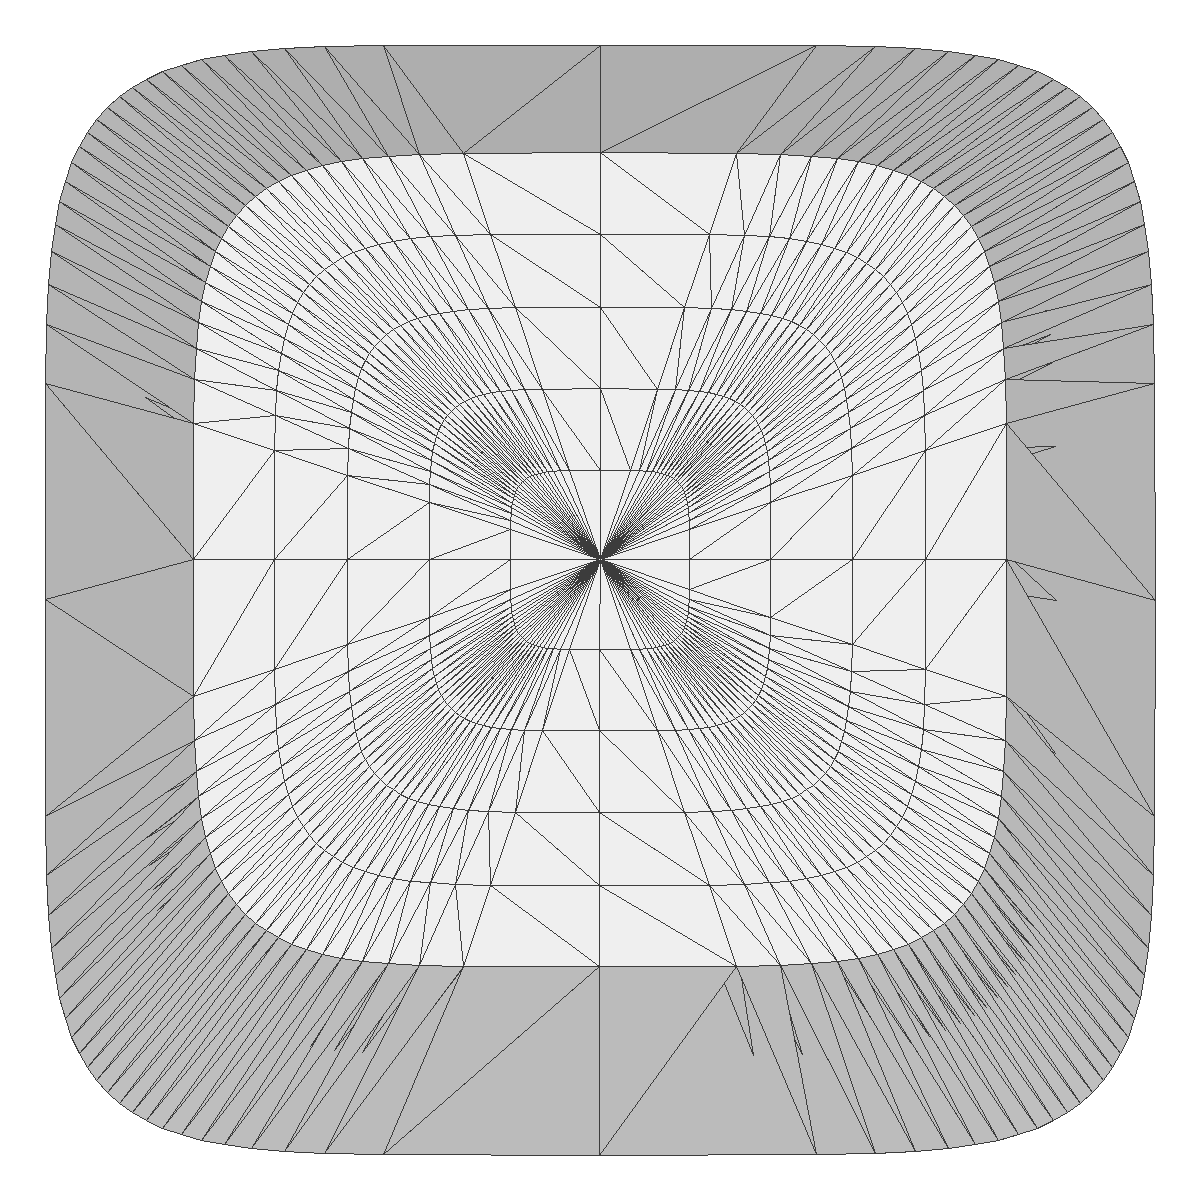
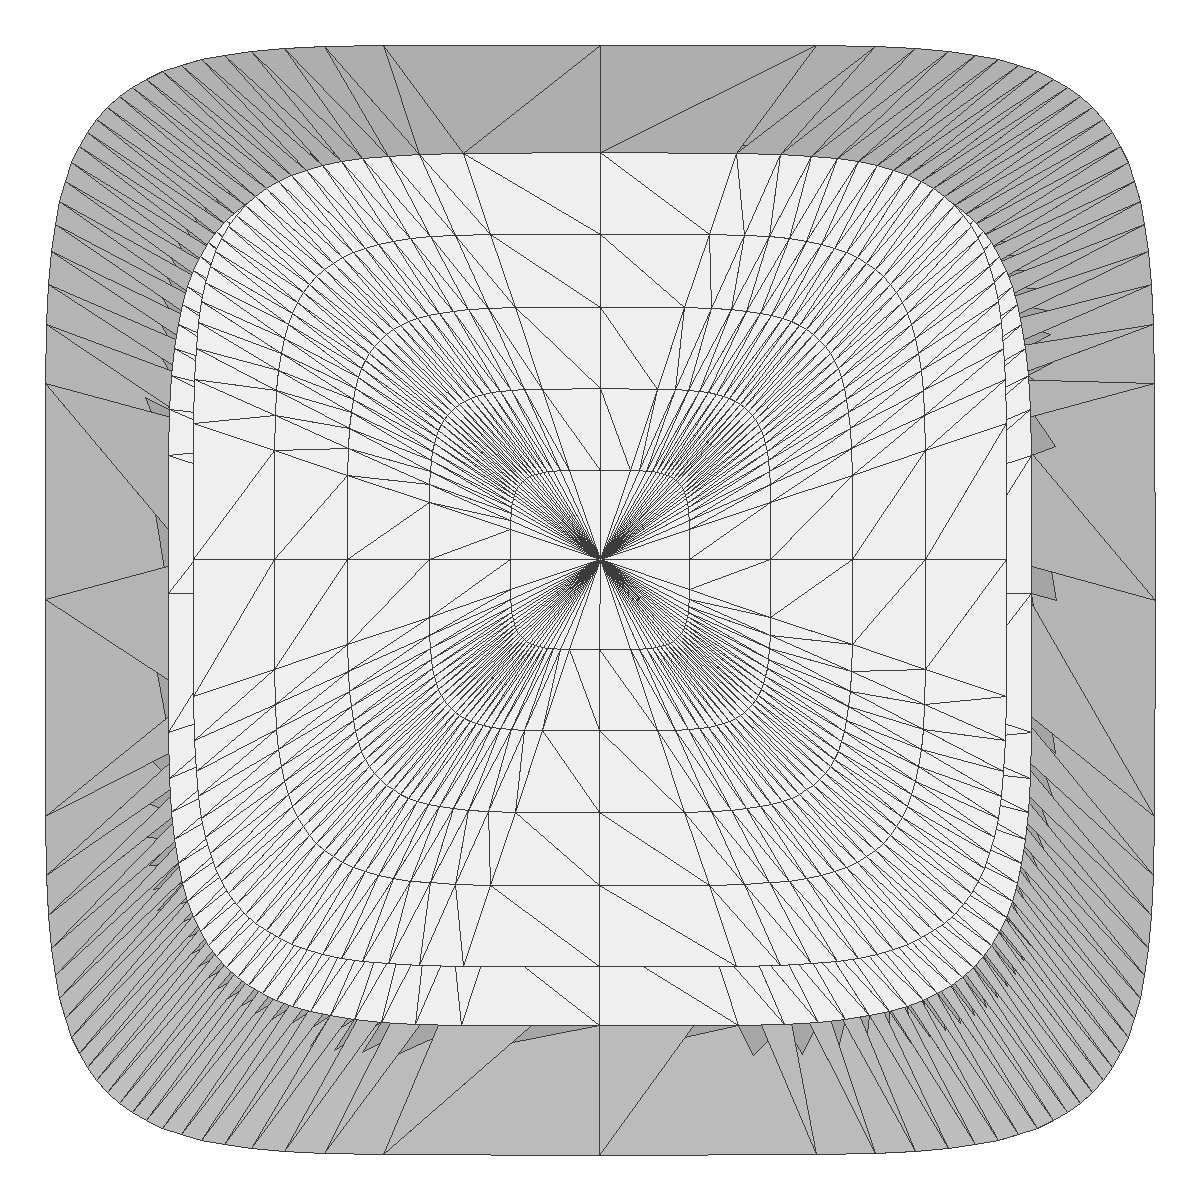
.

Changed region(s): [[0.1233, 0.185, 0.8633, 0.8633]]

diff --git a/scripts/make_keycap_hollow_bottom.py b/scripts/make_keycap_hollow_bottom.py
@@ -124,13 +124,13 @@ def make_keycap():
     # Hollow underside, no stem.
     inner_bottom_w = 14.8
     inner_bottom_d = 14.8
-    inner_roof_w = 10.8
-    inner_roof_d = 10.8
+    inner_roof_w = 14.0
+    inner_roof_d = 14.0
 
     outer_bottom = superellipse_loop(outer_bottom_w, outer_bottom_d, lambda _x, _y: 0.0, exponent=5.8)
     outer_top = superellipse_loop(outer_top_w, outer_top_d, top_z, y_offset=top_offset_y, exponent=5.0)
     inner_bottom = superellipse_loop(inner_bottom_w, inner_bottom_d, lambda _x, _y: 0.0, exponent=5.0)
-    inner_roof = superellipse_loop(inner_roof_w, inner_roof_d, roof_z, y_offset=top_offset_y * 0.45, exponent=4.4)
+    inner_roof = superellipse_loop(inner_roof_w, inner_roof_d, roof_z, y_offset=top_offset_y * 0.15, exponent=4.8)
 
     # Outer tapered side wall.
     add_loop_bridge(tris, outer_bottom, outer_top)
@@ -145,7 +145,7 @@ def make_keycap():
     add_loop_bridge(tris, inner_bottom, inner_roof, reverse=True)
 
     # Smooth ceiling of the hollow cavity.
-    add_filled_superellipse_surface(tris, inner_roof_w, inner_roof_d, roof_z, y_offset=top_offset_y * 0.45, exponent=4.4, reverse=True)
+    add_filled_superellipse_surface(tris, inner_roof_w, inner_roof_d, roof_z, y_offset=top_offset_y * 0.15, exponent=4.8, reverse=True)
 
     return tris
 
@@ -187,6 +187,7 @@ def write_doc():
         "- Top reference: about 13.2 x 13.2 mm\n"
         "- Bottom opening: about 14.8 x 14.8 mm\n"
         "- Wall/rim thickness at bottom: about 1.6 mm\n"
+        "- Inner wall is near-vertical so the hollow roof matches the cavity cleanly.\n"
         "- Underside is fully hollow and contains no Cherry MX stem, cross, post, bridge, or internal support.\n\n"
         "Output:\n"
         f"- `{OUT_STL.name}`\n"

diff --git a/docs/README_keycap_1u_hollow_bottom_no_stem.md b/docs/README_keycap_1u_hollow_bottom_no_stem.md
@@ -8,6 +8,7 @@ Geometry:
 - Top reference: about 13.2 x 13.2 mm
 - Bottom opening: about 14.8 x 14.8 mm
 - Wall/rim thickness at bottom: about 1.6 mm
+- Inner wall is near-vertical so the hollow roof matches the cavity cleanly.
 - Underside is fully hollow and contains no Cherry MX stem, cross, post, bridge, or internal support.
 
 Output:
